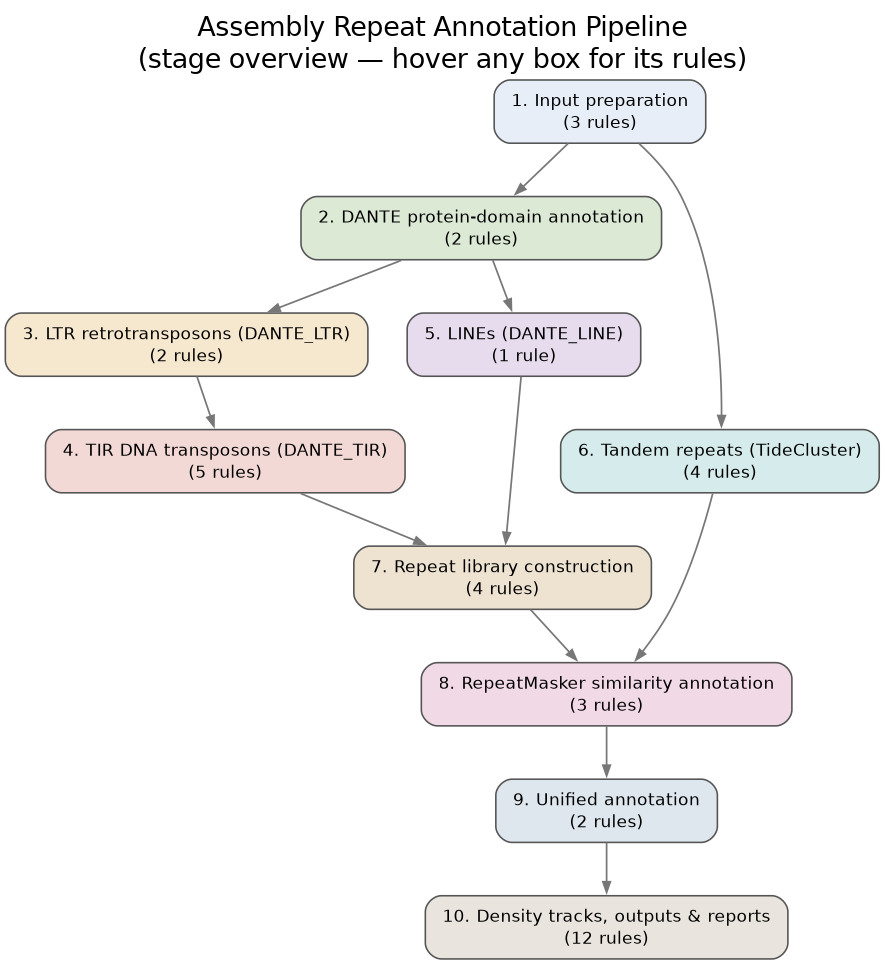
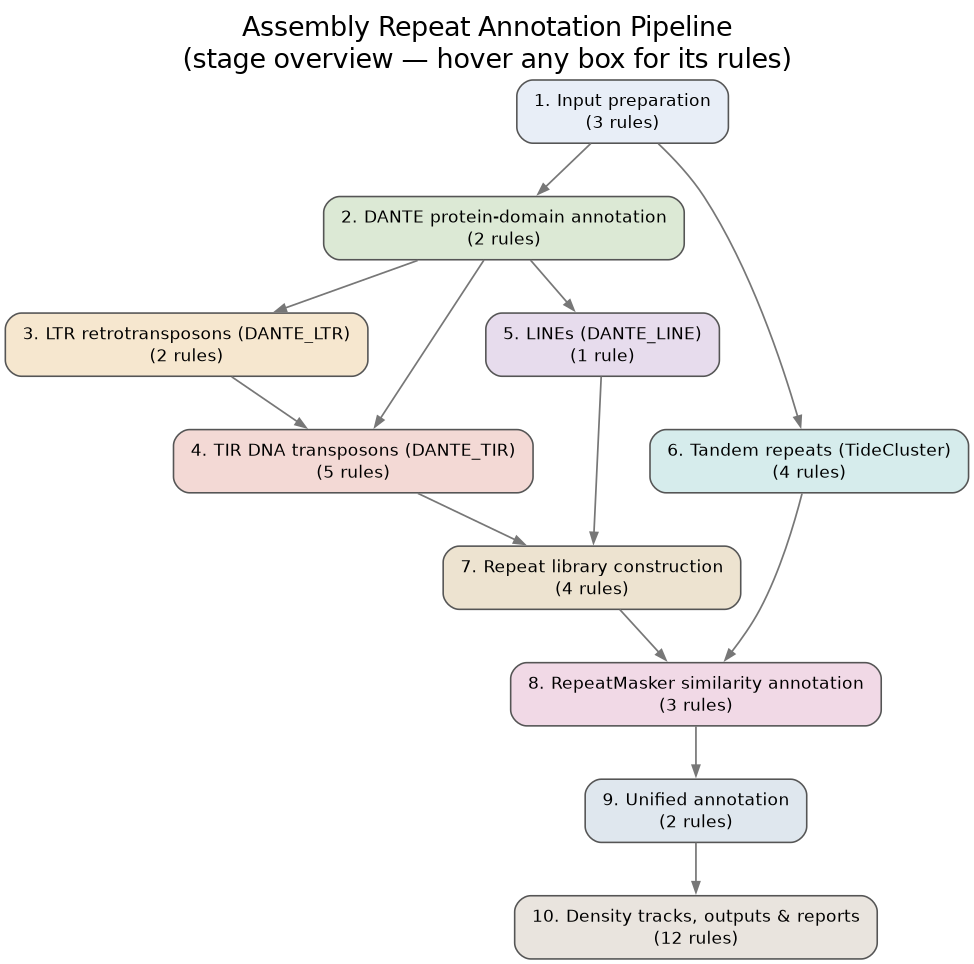
Pin DANTE fan-out in workflow diagram
Protect DANTE -> {LTR, TIR, LINE} stage edges from transitive reduction so the
primary DANTE fan-out is always shown (previously the real but secondary
LTR-library dependency of build_fallback_tir_library let reduction drop the
direct DANTE->TIR edge, misleadingly implying TIR detection requires LTR).
Only genuine rule dependencies are pinned. Regenerated figs.

diff --git a/scripts/make_workflow_diagram.py b/scripts/make_workflow_diagram.py
@@ -65,6 +65,19 @@ STAGES = [
         "make_summary_plots", "make_benchmark_report", "make_repeat_report"]),
 ]
 
+# Stage-edges that must always be drawn (never removed by transitive
+# reduction), so a primary dependency isn't hidden behind a secondary path.
+# The DANTE protein-domain stage fans out to all three element callers; that
+# fan-out is the primary flow, but TIR also depends on the LTR *library*
+# (build_fallback_tir_library), which would otherwise let reduction drop the
+# direct DANTE->TIR edge. Only edges that are genuine rule dependencies are
+# pinned (others are silently ignored).
+PINNED_EDGES = {
+    ("DANTE protein-domain annotation", "LTR retrotransposons (DANTE_LTR)"),
+    ("DANTE protein-domain annotation", "TIR DNA transposons (DANTE_TIR)"),
+    ("DANTE protein-domain annotation", "LINEs (DANTE_LINE)"),
+}
+
 # Muted, print-friendly fill colours (one per stage, in order).
 PALETTE = [
     "#E8EEF7", "#DCE9D5", "#F6E7CF", "#F3D9D5", "#E7Dced",
@@ -144,14 +157,17 @@ def get_rule_edges(snakefile, snakemake_bin):
     return edges
 
 
-def transitive_reduction(edges):
+def transitive_reduction(edges, protected=frozenset()):
     """Drop edges implied by a longer path (DAG transitive reduction), so the
-    overview shows immediate stage-to-stage flow instead of every skip edge."""
+    overview shows immediate stage-to-stage flow instead of every skip edge.
+    Edges in ``protected`` are never removed."""
     succ = {}
     for a, b in edges:
         succ.setdefault(a, set()).add(b)
     reduced = set(edges)
     for a, b in list(edges):
+        if (a, b) in protected:
+            continue
         stack = [s for s in succ.get(a, ()) if s != b]
         seen = set()
         while stack:
@@ -194,7 +210,8 @@ def build_dot(snakefile, snakemake_bin):
         sa, sb = r2s.get(a), r2s.get(b)
         if sa and sb and sa != sb and stage_idx[sa] < stage_idx[sb]:
             stage_edges.add((sa, sb))
-    stage_edges = transitive_reduction(stage_edges)
+    protected = PINNED_EDGES & stage_edges
+    stage_edges = transitive_reduction(stage_edges, protected)
 
     lines = [
         "digraph pipeline {",